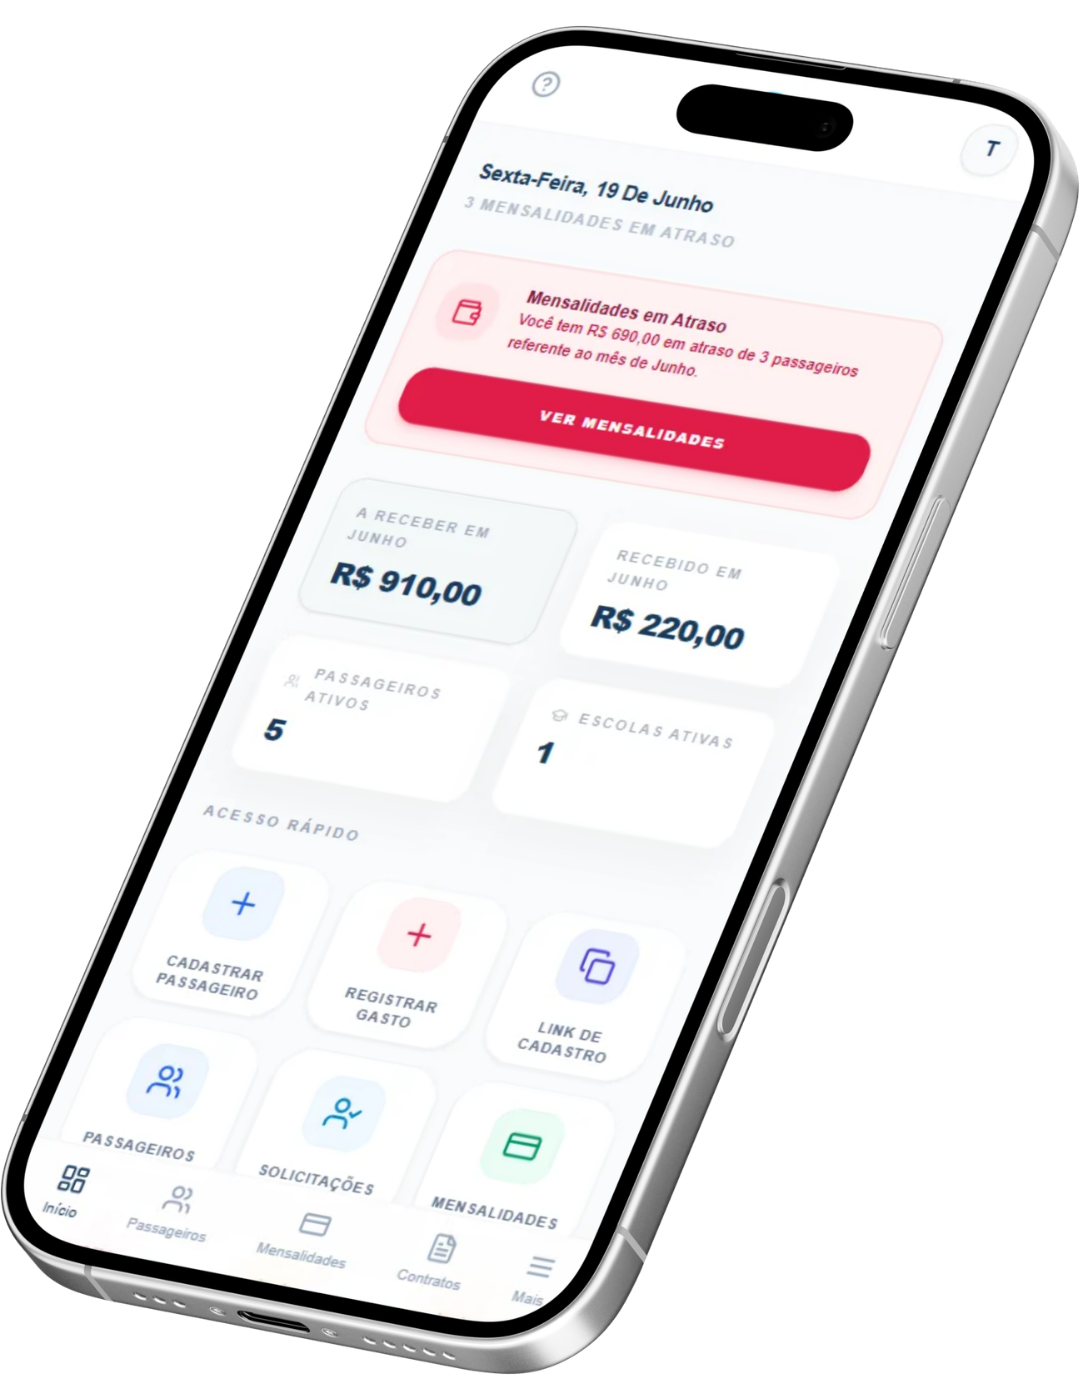
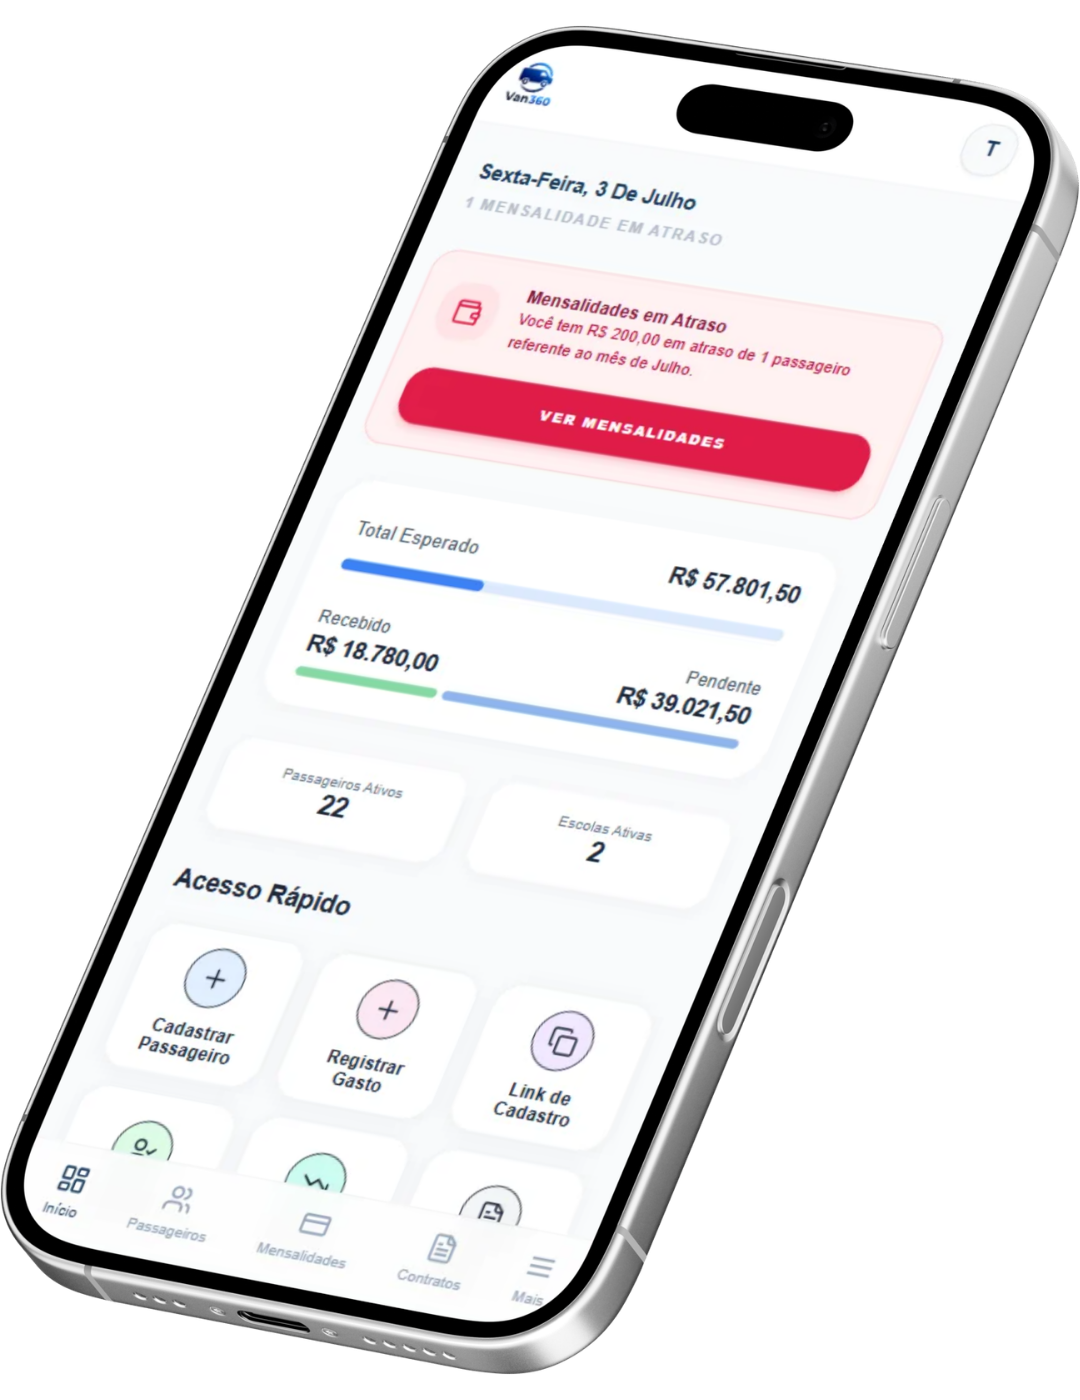
[FORCE]

diff --git a/src/pages/lp/Index.tsx b/src/pages/lp/Index.tsx
@@ -456,7 +456,7 @@ const Index = () => {
                 <div className="max-w-[320px] sm:max-w-[360px] w-full relative">
                   <WhatsAppBalloon text="A mensalidade do Enzo vence hoje." delay="1s" positionClass="-top-4 left-0 sm:-left-4" />
                   <MockupImage
-                    src="/assets/lp/mockup-mensalidades-2.png"
+                    src="/assets/lp/mockup-dashboard.png"
                     alt="App de cobrança de mensalidade para van escolar rodando no celular"
                     loading="eager"
                     width={1080}